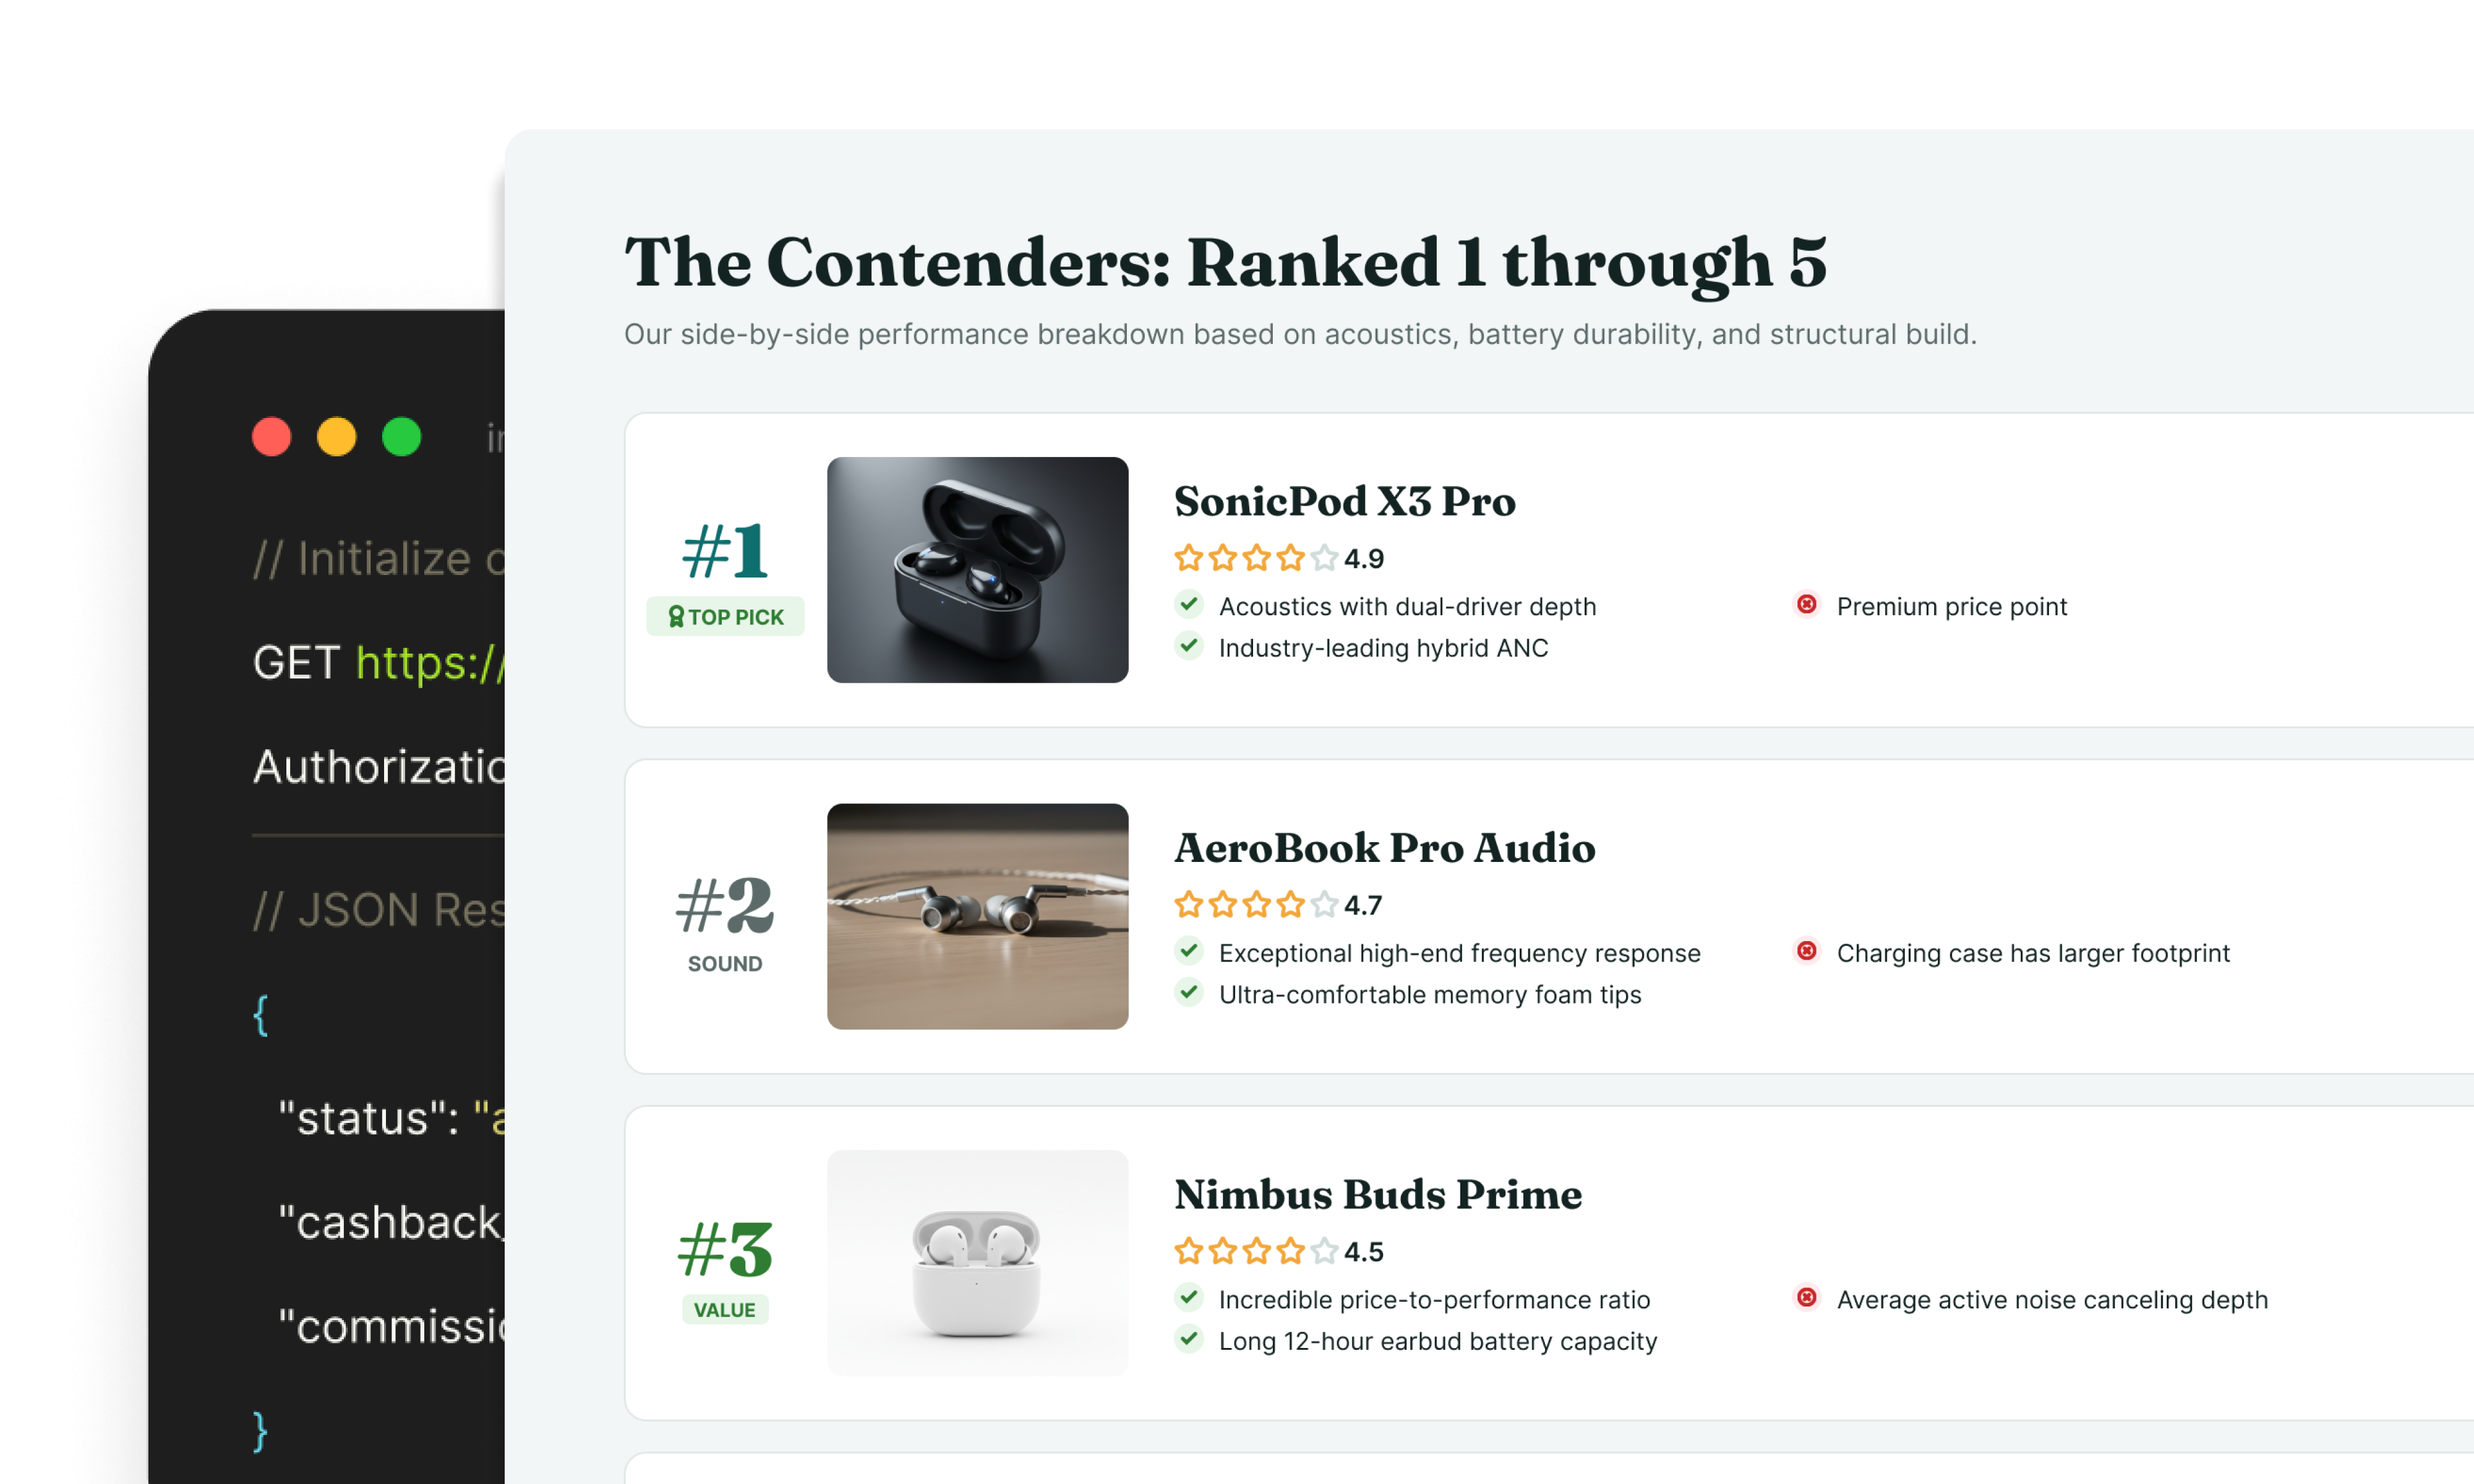
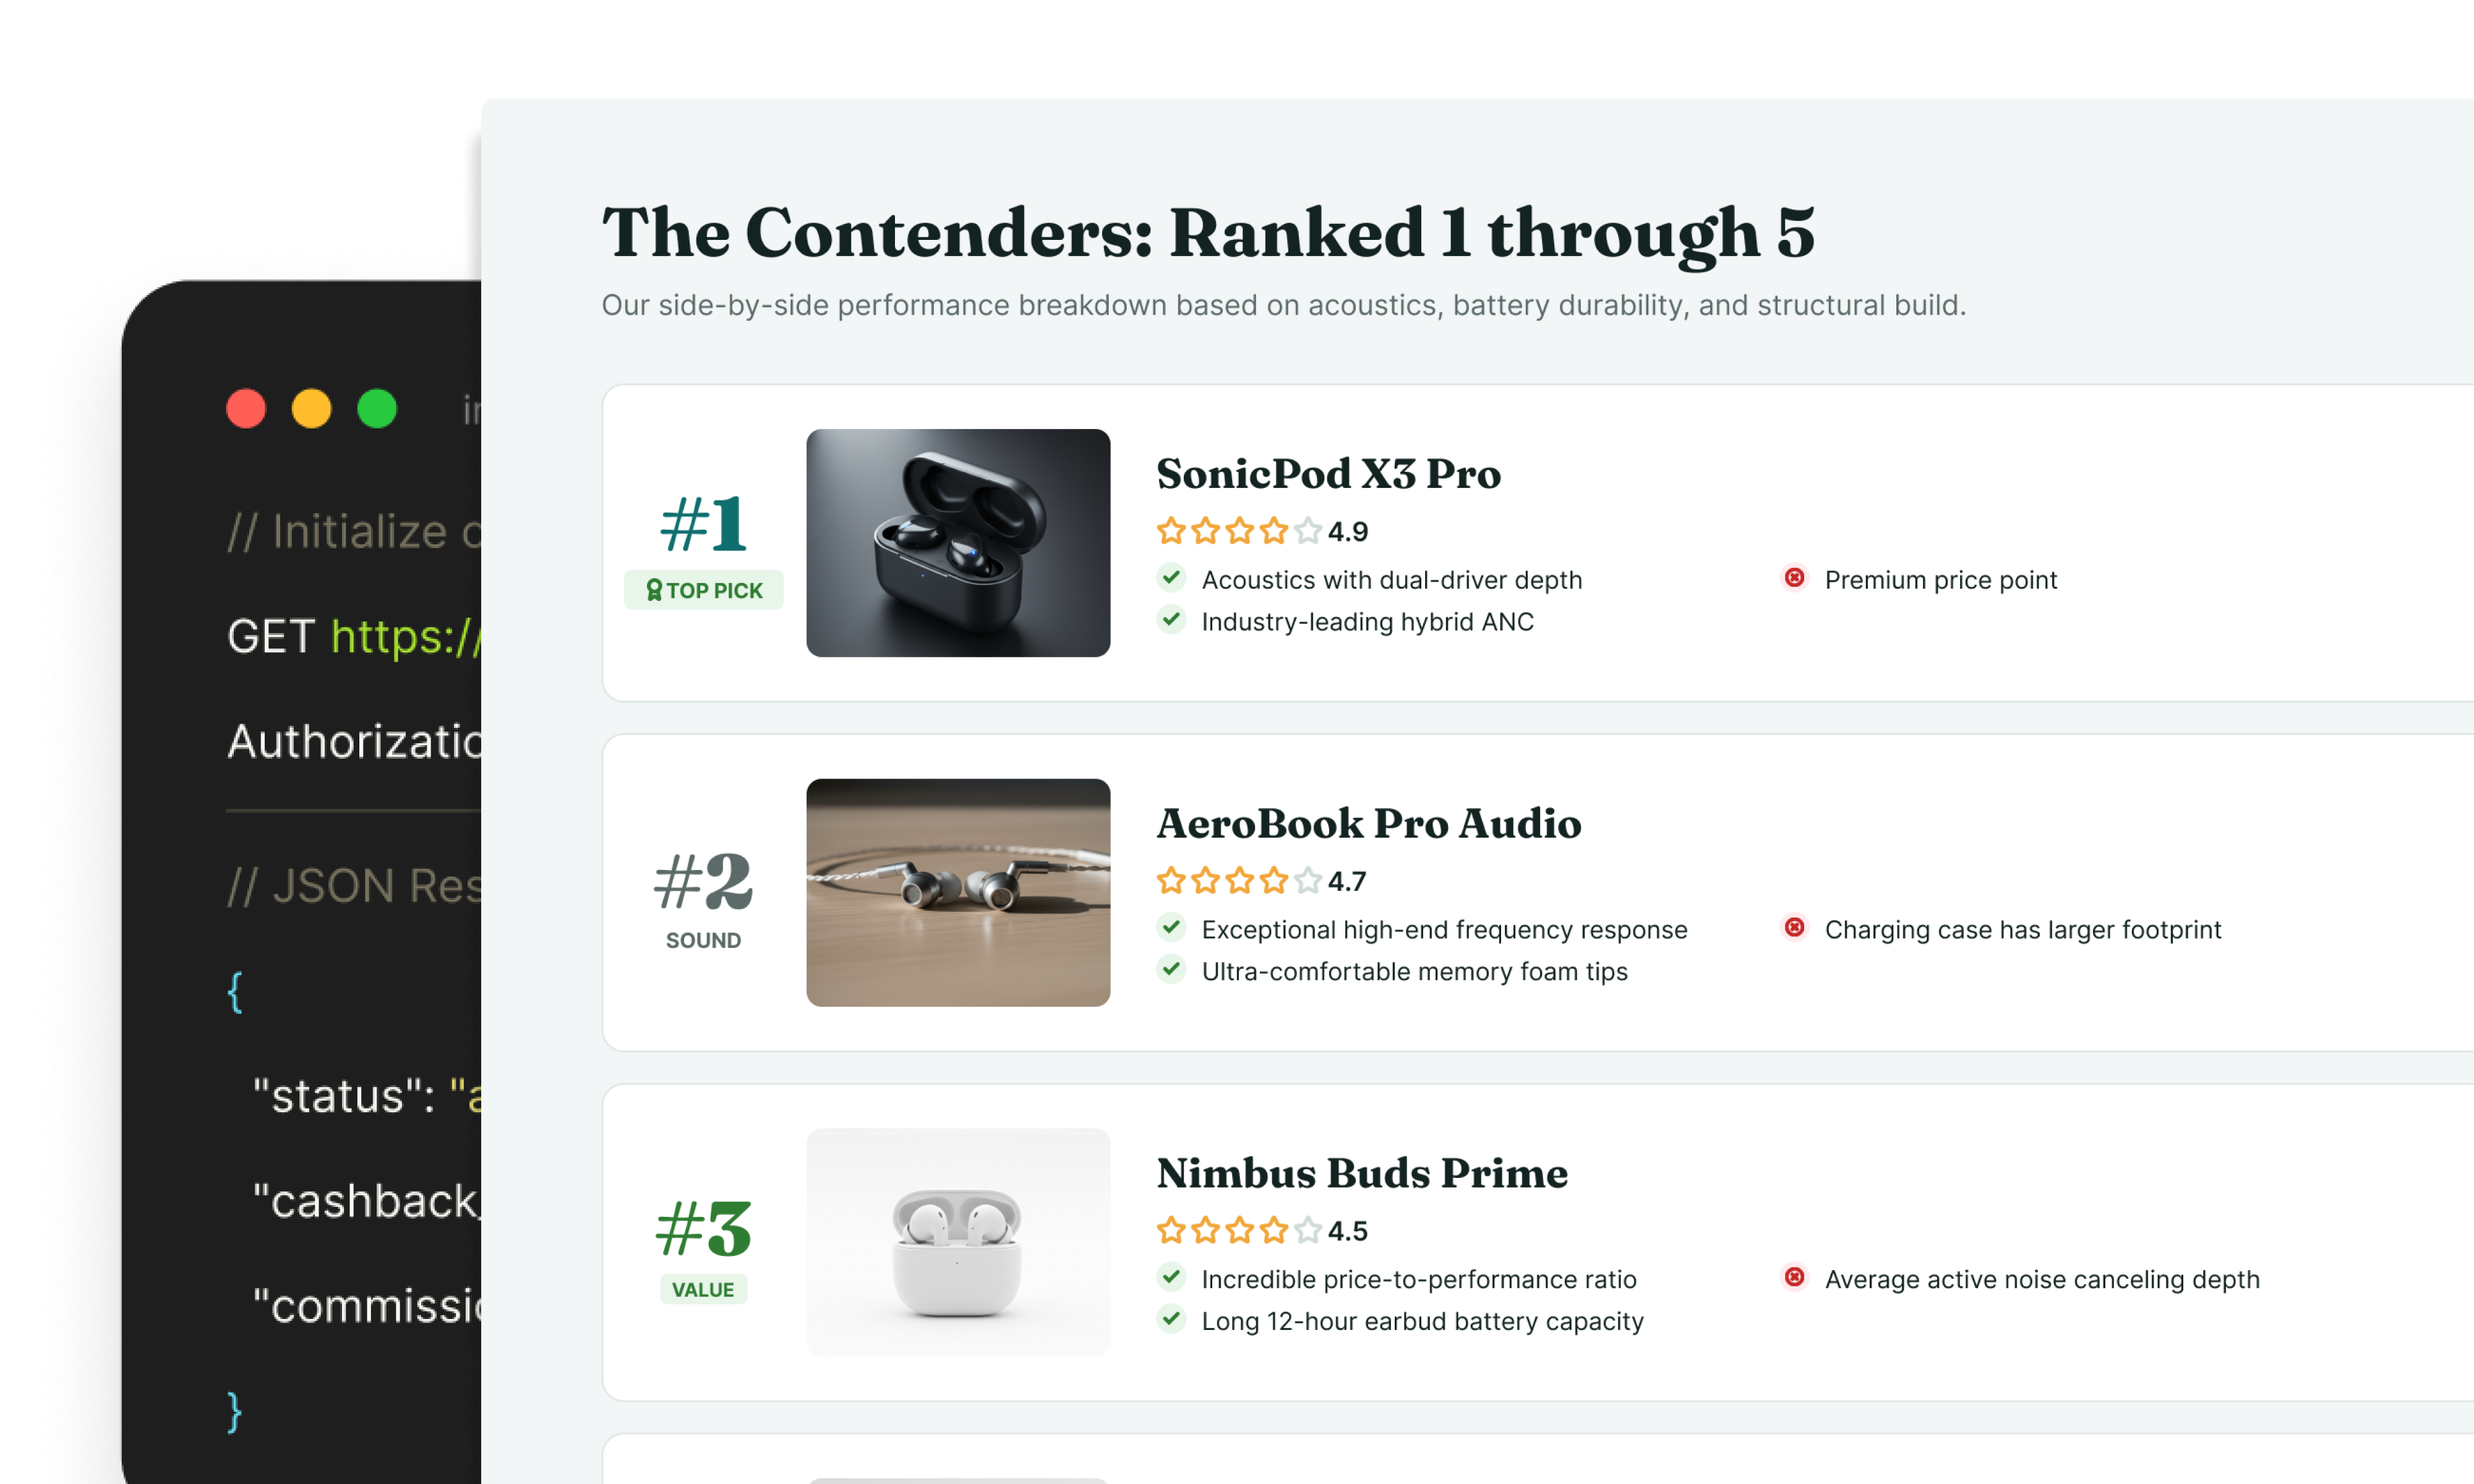
Update aff-partner-slide1/2 images + cache-bust (?v=2)
Updated Datafeed Manager (slide1) and API (slide2) tool images. Same filenames,
so append ?v=2 to the references (affiliates + technology pages) to defeat the
no-cache static host's stale copy.

diff --git a/affiliates.jsx b/affiliates.jsx
@@ -1533,9 +1533,9 @@ function HowItWorks() {
 /* ---------- Affiliates §4 — "Built to run at any scale." (tab view, reused from the
    Creator Partners tools section — pf-* pattern). Datafeed Manager / API / Creative Hub. ---------- */
 const AFF_TOOLS = [
-  { key: 'datafeed', t: 'Datafeed Manager', d: 'Feed live product data like prices, offers, and stock straight into your site, and keep it current automatically.', img: 'aff-partner-slide1.png',
+  { key: 'datafeed', t: 'Datafeed Manager', d: 'Feed live product data like prices, offers, and stock straight into your site, and keep it current automatically.', img: 'aff-partner-slide1.png?v=2',
     ic: <svg viewBox="0 0 24 24" fill="none" stroke="currentColor" strokeWidth="1.8" strokeLinecap="round" strokeLinejoin="round"><ellipse cx="12" cy="5" rx="8" ry="3" /><path d="M4 5v6c0 1.66 3.58 3 8 3s8-1.34 8-3V5" /><path d="M4 11v6c0 1.66 3.58 3 8 3s8-1.34 8-3v-6" /></svg> },
-  { key: 'api', t: 'API', d: 'Pull offers and conversions and generate tracking links programmatically, so affiliate data and links live inside your own systems.', img: 'aff-partner-slide2.png',
+  { key: 'api', t: 'API', d: 'Pull offers and conversions and generate tracking links programmatically, so affiliate data and links live inside your own systems.', img: 'aff-partner-slide2.png?v=2',
     ic: <svg viewBox="0 0 24 24" fill="none" stroke="currentColor" strokeWidth="1.8" strokeLinecap="round" strokeLinejoin="round"><path d="M8 8l-4 4 4 4" /><path d="M16 8l4 4-4 4" /><path d="M13 6l-2 12" /></svg> },
   { key: 'creative', t: 'Creative Hub', d: 'Grab ready-made banners and campaign coupon codes from top brands to promote.', img: 'creator-partner-slide3.png',
     ic: <svg viewBox="0 0 24 24" fill="none" stroke="currentColor" strokeWidth="1.8" strokeLinecap="round" strokeLinejoin="round"><rect x="3" y="3" width="18" height="18" rx="2" /><circle cx="8.5" cy="8.5" r="1.5" /><path d="M21 15l-5-5L5 21" /></svg> },

diff --git a/technology-partners.jsx b/technology-partners.jsx
@@ -1357,7 +1357,7 @@ const CREATE_TABS = [
     ic: <svg viewBox="0 0 24 24" fill="none" stroke="currentColor" strokeWidth="1.8" strokeLinecap="round" strokeLinejoin="round"><path d="M8 8l-4 4 4 4" /><path d="M16 8l4 4-4 4" /><path d="M13 6l-2 12" /></svg> },
   { key: 'postback', t: 'Postback', d: 'Get conversions pushed to your server in real time (server-to-server), so you never have to log in and check reports. You handle the data on your own system.', img: 'postback-tool-slide.png',
     ic: <svg viewBox="0 0 24 24" fill="none" stroke="currentColor" strokeWidth="1.8" strokeLinecap="round" strokeLinejoin="round"><path d="M4 9h11a4 4 0 0 1 0 8h-2" /><path d="M7 20l-3-3 3-3" /><path d="M20 5v4h-4" /></svg> },
-  { key: 'datafeed', t: 'Datafeed Manager', d: 'Pull live product data like prices, offers, and stock to surface catalogues inside your product.', img: 'aff-partner-slide1.png',
+  { key: 'datafeed', t: 'Datafeed Manager', d: 'Pull live product data like prices, offers, and stock to surface catalogues inside your product.', img: 'aff-partner-slide1.png?v=2',
     ic: <svg viewBox="0 0 24 24" fill="none" stroke="currentColor" strokeWidth="1.8" strokeLinecap="round" strokeLinejoin="round"><ellipse cx="12" cy="5" rx="8" ry="3" /><path d="M4 5v6c0 1.66 3.58 3 8 3s8-1.34 8-3V5" /><path d="M4 11v6c0 1.66 3.58 3 8 3s8-1.34 8-3v-6" /></svg> },
 ];
 const CREATE_TABS_MS = 5000;
